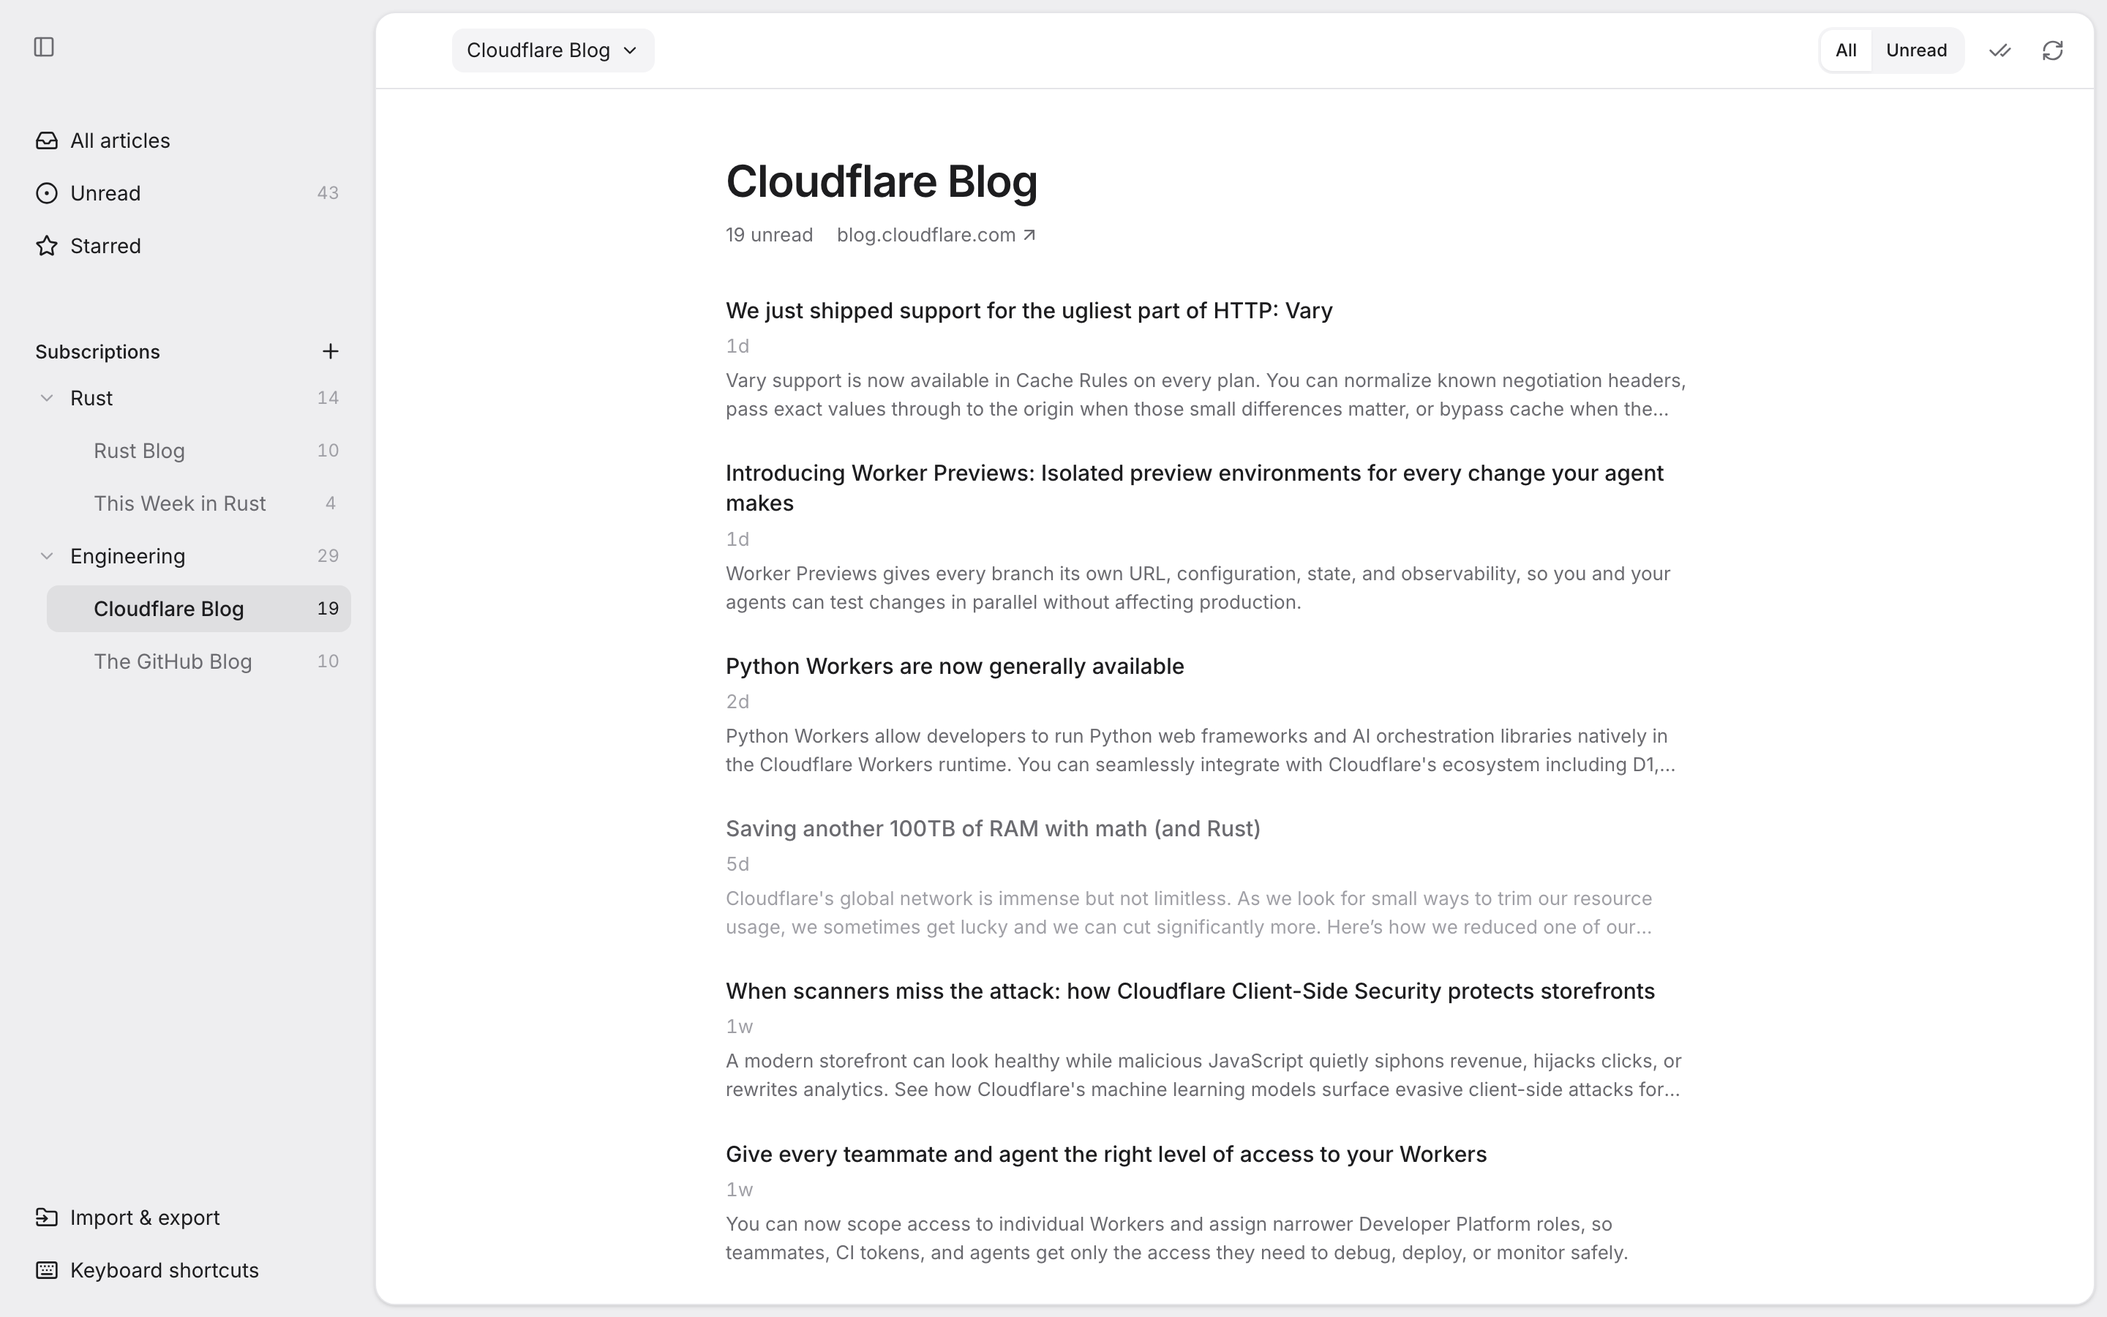
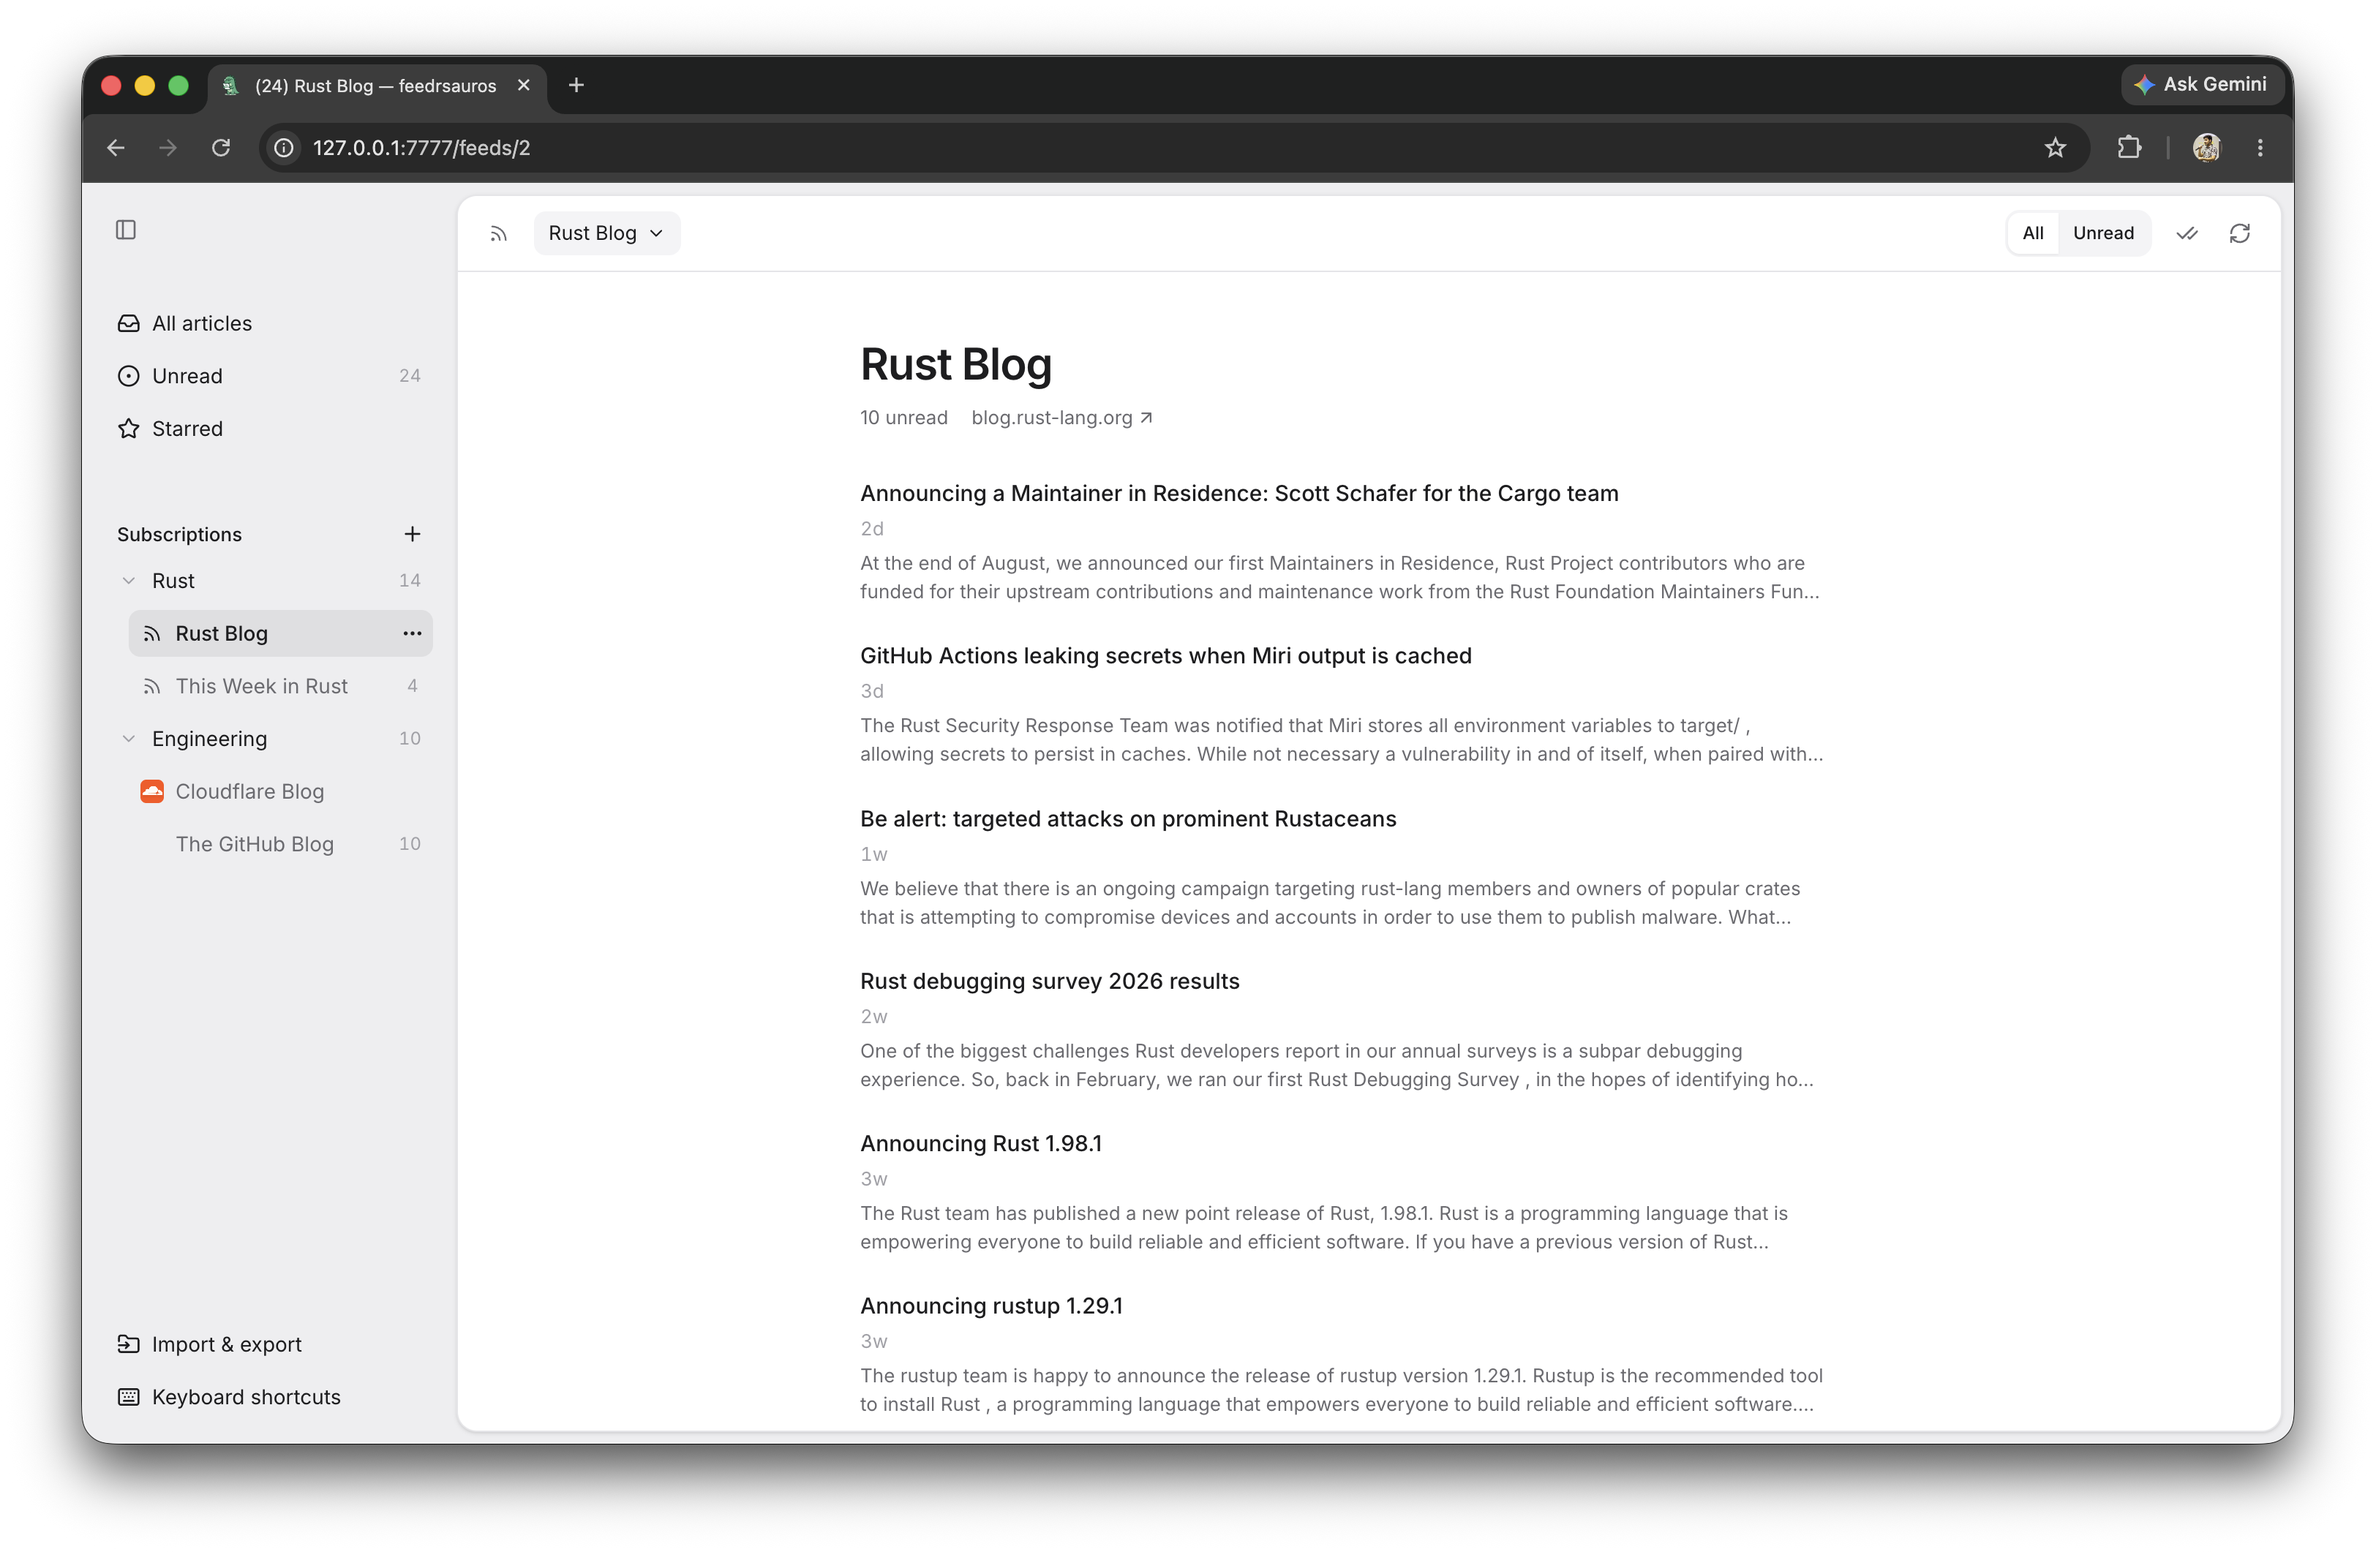
Use real app screenshots on the landing page

Changed region(s): [[0.0, 0.0311, 1.0, 0.9956], [0.3438, 0.2178, 0.7812, 0.5911], [0.1562, 0.4044, 0.1875, 0.4356]]

diff --git a/website/public/index.html b/website/public/index.html
@@ -188,14 +188,9 @@
 
       /* Screenshots */
 
+      /* The screenshots are window captures with their own frame and shadow, so they sit unframed. */
       .shot {
         margin: 0;
-        border-radius: 14px;
-        overflow: hidden;
-        background: #eeeef0;
-        box-shadow:
-          0 0 0 1px rgb(14 42 31 / 0.06),
-          0 30px 60px -30px rgb(14 42 31 / 0.35);
       }
 
       .shot img {
@@ -446,9 +441,9 @@
         <figure class="shot">
           <img
             src="/screenshot-list.png"
-            alt="The feedrsauros app: folders of feeds in the sidebar and the latest Cloudflare Blog articles in the list"
-            width="2880"
-            height="1800"
+            alt="The feedrsauros app: folders of feeds in the sidebar and the latest Rust Blog articles in the list"
+            width="3248"
+            height="2122"
           />
         </figure>
 
@@ -502,8 +497,8 @@
               <img
                 src="/screenshot-reader.png"
                 alt="An article from the Cloudflare Blog open in the feedrsauros reader"
-                width="2880"
-                height="1800"
+                width="3248"
+                height="2122"
                 loading="lazy"
               />
             </figure>
